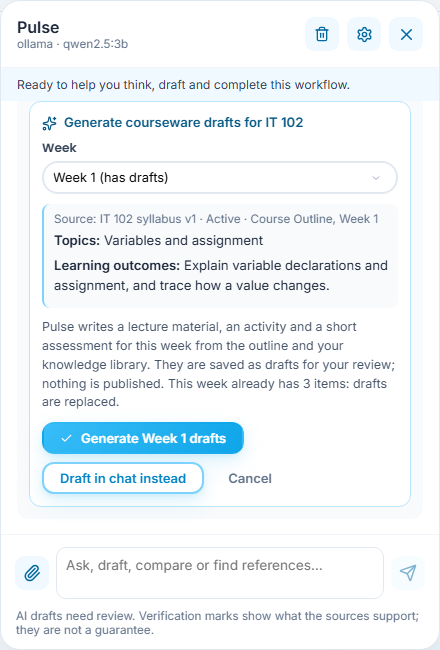
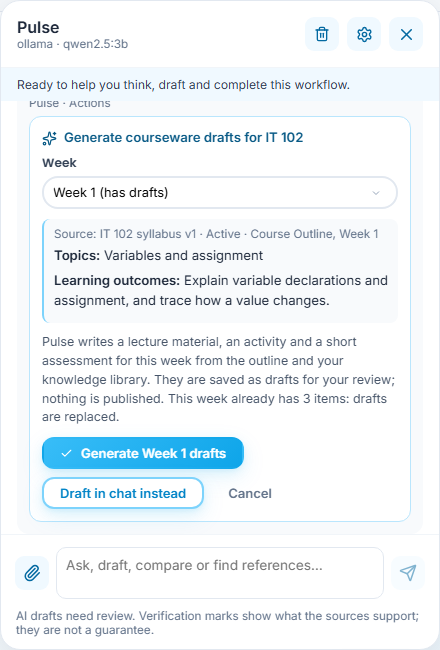
feat: enhance Pulse component with file attachment handling and improve UI for action cards

diff --git a/edupulse-app/src/components/pulse/PulseActions.jsx b/edupulse-app/src/components/pulse/PulseActions.jsx
@@ -9,6 +9,8 @@ import { rankCourses, refineCourses } from '../../agents/operator'
 
 const STRENGTH = { named: 'Named in the file', strong: 'Strong match', possible: 'Possible match' }
 const isExam = row => !row?.ilos && /examination/i.test(row?.assessments || '')
+// A long address wraps after its "@", never inside the name or domain.
+const Email = ({ value }) => { const at = value.indexOf('@'); return at > 0 ? <>{value.slice(0, at + 1)}<wbr />{value.slice(at + 1)}</> : value }
 
 function CourseOptions({ catalog }) {
   const yours = catalog.filter(c => c.yours), others = catalog.filter(c => !c.yours)
@@ -52,7 +54,7 @@ function RegisterCard({ proposal, ctx }) {
       <label className="form-label">Block section<input className="form-input" aria-label="Block section" value={block} maxLength={20} placeholder="e.g. BSIT-1A" onChange={e => setBlock(e.target.value.toUpperCase())} /></label>
     </div>
     <div className="pulse-action-table"><table><thead><tr><th scope="col">Student ID</th><th scope="col">Name</th><th scope="col">Email</th></tr></thead>
-      <tbody>{roster.students.slice(0, 5).map(s => <tr key={`${s.StudentID}-${s.Name}`}><td>{s.StudentID || '—'}</td><td>{s.Name}</td><td>{s.Email || '—'}</td></tr>)}</tbody></table>
+      <tbody>{roster.students.slice(0, 5).map(s => <tr key={`${s.StudentID}-${s.Name}`}><td>{s.StudentID || '—'}</td><td>{s.Name}</td><td>{s.Email ? <Email value={s.Email} /> : '—'}</td></tr>)}</tbody></table>
       {roster.students.length > 5 && <small>and {roster.students.length - 5} more</small>}</div>
     <p className="pulse-action-note">{!courseCode || !block.trim() ? 'Choose the course and block to see what will change.' : preview ? `${courseCode} · ${block.trim()} already lists ${existing.studentCount} students: ${preview.added} new will be added and ${preview.already} already registered will be kept once.` : `This adds a new class list for ${courseCode} · ${block.trim()} to Syllabus → My Courses.`}</p>
     {state.status === 'error' && <p role="alert" className="connected-pulse-warning">{state.message}</p>}
@@ -99,7 +101,7 @@ function FileCard({ proposal, ctx }) {
       <button type="button" className="btn btn-secondary btn-sm" onClick={() => ctx.ask(`Summarize “${r.title}” and list its key points.`, { documentIds: [r.id], task: 'summarize', label: r.title })}><MessageSquare size={13} /> Ask about it</button>
       <button type="button" className="btn btn-secondary btn-sm" onClick={() => ctx.ask(`Make a study guide from “${r.title}”: key terms, main ideas and three self-check questions, with citations.`, { documentIds: [r.id], task: 'draft', label: r.title })}><BookOpenCheck size={13} /> Make a study guide</button>
       <button type="button" className="btn btn-ghost btn-sm" onClick={() => ctx.navigate('/settings?tab=ai-provider')}><ExternalLink size={13} /> Open knowledge library</button></>}>
-      {r.duplicate ? <><strong>Already in your library.</strong> “{r.title}” was indexed before; nothing was added.</> : <><strong>Added to your knowledge library.</strong> “{r.title}” · {r.chunks} passages{r.pages ? ` from ${r.pages} pages` : ''}{r.course ? `, filed under ${r.course}` : ''}. Pulse cites it by title and page.</>}
+      {r.duplicate ? <><strong>Already in your library.</strong> “{r.title}” was indexed before; nothing was added.</> : <><strong>Added to your knowledge library.</strong> “{r.title}” · {r.chunks} passage{r.chunks === 1 ? '' : 's'}{r.pages ? ` from ${r.pages} page${r.pages === 1 ? '' : 's'}` : ''}{r.course ? `, filed under ${r.course}` : ''}. Pulse cites it by title{r.pages ? ' and page' : ''}.</>}
     </Done>
   }
   if (!open) return <div className="pulse-action pulse-action-compact"><FolderPlus size={14} aria-hidden="true" /><span>Keep <strong>{attachment.fileName}</strong> for later?{top ? <> Suggested course: <strong>{top.code}</strong> ({STRENGTH[top.strength].toLowerCase()}).</> : ''}</span><button type="button" className="btn btn-secondary btn-sm" onClick={() => setOpen(true)}>Review and add</button></div>

diff --git a/edupulse-app/tests/snapshots/manual.spec.ts b/edupulse-app/tests/snapshots/manual.spec.ts
@@ -4,14 +4,14 @@ import { mkdir, readFile } from 'node:fs/promises'
 // System manual: step-by-step task screenshots from the production build.
 const ROOT = '../feature-documentation/system-manual'
 test.describe.configure({ mode: 'serial' })
-async function shot(target: Page | Locator, folder: string, name: string) {
+async function shot(target: Page | Locator, folder: string, name: string, extraStyle = '') {
   await mkdir(`${ROOT}/${folder}`, { recursive: true })
   const component = !('goto' in target)
   // Toasts from earlier steps would cover the screen being documented.
   const page = component ? (target as Locator).page() : target as Page
   for (const toast of await page.locator('.toast').all()) await toast.click().catch(() => undefined)
   await expect(page.locator('.toast')).toHaveCount(0, { timeout: 5000 }).catch(() => undefined)
-  await target.screenshot({ path: `${ROOT}/${folder}/${name}.png`, animations: 'disabled', ...(component ? { style: '.app-topbar{position:static !important}' } : {}) })
+  await target.screenshot({ path: `${ROOT}/${folder}/${name}.png`, animations: 'disabled', ...(component ? { style: `.app-topbar{position:static !important}${extraStyle}` } : {}) })
 }
 const saved = (page: Page) => expect(page.getByText('Local workspace · Saved', { exact: true })).toBeVisible({ timeout: 30_000 })
 
@@ -107,6 +107,8 @@ const sampleClassList = `StudentID,Name,Email,YearLevel,Block
 2026-90005,Felix Uy,felix.uy@example.edu,1,BSIT-1B
 2026-90006,Gina P. Flores,gina.flores@example.edu,1,BSIT-1B`
 const pulseDialog = (page: Page) => page.getByRole('dialog', { name: 'Pulse', exact: true })
+// An action card taller than the panel's scroll area is captured whole: the panel may grow upwards while the card is shot.
+const WHOLE_CARD = '.connected-pulse{height:auto !important;overflow:visible !important}.connected-pulse-feed{overflow:visible !important;flex:none !important}'
 async function askPulse(page: Page, text: string) {
   await page.getByRole('textbox', { name: 'Ask Pulse', exact: true }).fill(text)
   await page.getByRole('button', { name: 'Send', exact: true }).click()
@@ -126,8 +128,7 @@ test('Pulse actions: register an attached class list, then search it', async ({ 
   await page.getByRole('button', { name: 'Send', exact: true }).click()
   const card = dialog.getByRole('region', { name: /^Register class list/ })
   await expect(card.getByLabel('Course to register')).toHaveValue('IT 102')
-  await card.scrollIntoViewIfNeeded()
-  await shot(dialog, f, '02-register-card')
+  await shot(card, f, '02-register-card', WHOLE_CARD)
   await card.getByRole('button', { name: 'Register 6 students' }).click()
   await expect(dialog.getByText(/IT 102 · BSIT-1B now lists 6 students/)).toBeVisible()
   await saved(page)
@@ -152,8 +153,7 @@ test('Pulse actions: a student files a material under a course', async ({ page, 
   await askPulse(page, 'Which course is this for? Please save it there.')
   const card = dialog.getByRole('region', { name: 'Add css-layout-notes.txt to a course' })
   await expect(card).toContainText('Ranked by meaning (embeddings) and keyword match', { timeout: 60_000 })
-  await card.scrollIntoViewIfNeeded()
-  await shot(dialog, f, '05-material-course-suggestion')
+  await shot(card, f, '05-material-course-suggestion', WHOLE_CARD)
   await card.getByRole('button', { name: /^Add to library under/ }).click()
   await expect(dialog.getByText(/Added to your knowledge library/)).toBeVisible({ timeout: 120_000 })
   await shot(dialog, f, '06-material-added')

diff --git a/edupulse-app/src/components/pulse/Pulse.jsx b/edupulse-app/src/components/pulse/Pulse.jsx
@@ -235,7 +235,7 @@ export default function Pulse() {
     const references = plan.chat ? pending.map(chatReference) : []
     const syllabusRef = plan.chat && course && references.length < 3 ? syllabusReference(course) : null
     if (syllabusRef) references.push(syllabusRef)
-    setMessages(previous => [...previous, { id: crypto.randomUUID(), from: 'user', text: question || `Attached ${pending.map(a => a.fileName || a.title).join(', ')}`, attachedNames: references.map(a => a.title).concat(plan.chat ? [] : pending.map(a => a.fileName || a.title)), scope: options.scope }])
+    setMessages(previous => [...previous, { id: crypto.randomUUID(), from: 'user', text: question || `Attached ${pending.map(a => a.fileName || a.title).join(', ')}`, attachedNames: references.map(a => a.title), fileNames: plan.chat ? [] : pending.map(a => a.fileName || a.title), scope: options.scope }])
     for (const proposal of now) {
       if (proposal.type === 'navigate') navigate(proposal.path)
       if (proposal.type === 'search') {
@@ -303,6 +303,8 @@ export default function Pulse() {
           {message.from === 'pulse' && message.trace ? <AgentAnswer message={message} onRevise={note => void send(`Revise your previous answer: ${note}`, { task: message.task, skipOperator: true })} /> : message.mode === 'actions' ? <div className="pulse-actions">{message.proposals.map((proposal, i) => <PulseAction key={i} proposal={proposal} ctx={actionContext} />)}</div> : <div className="connected-pulse-text">{message.text}</div>}
           {message.scope && <small>Scope: {message.scope}</small>}
           {message.attachedNames?.length > 0 && <small>References: {message.attachedNames.join(', ')}</small>}
+          {/* Files used only by an action card are attached, not sent to the answer agents as references. */}
+          {message.fileNames?.length > 0 && <small>Attached: {message.fileNames.join(', ')}</small>}
           {message.warning && <p className="connected-pulse-warning">{message.warning}</p>}
           {message.actions?.map(action => <button key={action.label} className="btn btn-secondary btn-sm" onClick={() => { action.onClick?.(); if (action.path) navigate(action.path) }}>{action.label}</button>)}
         </article>)}

diff --git a/edupulse-app/src/components/pulse/connected-pulse.css b/edupulse-app/src/components/pulse/connected-pulse.css
@@ -100,8 +100,9 @@
 .pulse-action-fields { display: grid; grid-template-columns: minmax(0, 1.6fr) minmax(0, 1fr); gap: 8px; }
 .pulse-action-table { overflow-x: auto; margin-top: 8px; }
 .pulse-action-table table { width: 100%; border-collapse: collapse; font-size: .74rem; }
-.pulse-action-table th, .pulse-action-table td { text-align: left; padding: 5px 6px; border-bottom: 1px solid var(--gray-100); overflow-wrap: anywhere; }
+.pulse-action-table th, .pulse-action-table td { text-align: left; padding: 5px 6px; border-bottom: 1px solid var(--gray-100); overflow-wrap: break-word; }
 .pulse-action-table th { color: var(--gray-600); font-weight: 700; background: var(--gray-50); }
+.pulse-action-table td:first-child { white-space: nowrap; }
 .pulse-action-note { color: var(--gray-600); font-size: .78rem; line-height: 1.5; }
 .pulse-action-warnings { margin: 4px 0; padding-left: 18px; color: #71491a; font-size: .76rem; }
 .pulse-action-courses { border: 0; padding: 0; margin: 0; min-width: 0; }

diff --git a/feature-documentation/system-manual/09-pulse-actions/README.md b/feature-documentation/system-manual/09-pulse-actions/README.md
@@ -14,11 +14,11 @@ The class list in these screenshots is sample data: invented names with `example
 
    ![Class list attached](01-attach-class-list.png)
 
-2. The **Register students** card shows how the file was read, the **Course** and **Block section** (detected from the file name, a course column or the first lines; change them if needed), the first five students and what will change: a new class list, or for a course and block you already registered, how many students are new and how many are already listed. Rows without a name are reported, never guessed, and duplicate rows are merged. Press **Register *n* students** to confirm, or **Cancel**.
+2. The card **Register students from *file*** shows how the file was read (*6 students found (comma-separated table)*), the **Course** and **Block section** (detected from the file name, a course column or the first lines; change them if needed), the first five students (*and 1 more*) and what will change. Here it is a new class list: *This adds a new class list for IT 102 · BSIT-1B to Syllabus → My Courses*. For a course and block you already registered, the card says instead how many students are new and how many are already listed. Rows without a name are reported, never guessed, and duplicate rows are merged. Press **Register *n* students** to confirm, or **Cancel**.
 
    ![Register card](02-register-card.png)
 
-3. Pulse saves the class list to your workspace and opens **Syllabus → My Courses**, where it appears under **Registered Courses**. The card now says what was registered and from which file, with **Open My Courses** and **Undo**. **Undo** removes this registration, or restores the earlier list if it was merged.
+3. Pulse saves the class list to your workspace and opens **Syllabus → My Courses**, where it appears under **Registered Courses**. The card now says what was registered and from which file, with **Open My Courses** and **Undo**. **Undo** removes this registration, or restores the earlier list if it was merged. Your message lists the file under **Attached:** because only the action used it; files that Pulse reads to answer a question are listed under **References:**.
 
    ![Registered in My Courses](03-registered-in-my-courses.png)
 
@@ -30,11 +30,11 @@ The class list in these screenshots is sample data: invented names with `example
 
 ## File a material under a course (students and instructors)
 
-5. Attach a handout, notes or slides and ask *Which course is this for?* (or *save this to IT 209*). The card ranks the courses it matches. Each suggestion says why: the words from your file and where they appear in the course (its title, description, program outcomes or a syllabus outline week, for example *Week 3 topics*). Your own courses are marked **Your course**. Pulse ranks first by keywords, then re-ranks the shortlist by meaning with the embedding model; the line under the list says which method was used. Pick another course from **Another course** if needed and check the **Title**.
+5. Attach a handout, notes or slides and ask *Which course is this for?* (or *save this to IT 209*). The card ranks the courses it matches. The best match is selected. Each suggestion says why: the words from your file and where they appear in the course (its title, description, program outcomes or a syllabus outline week, for example *“flexbox” (Week 3 topics)*), and how strong the match is (**Named in the file**, **Strong match** or **Possible match**; here two web courses match about equally well, so both are *possible*). Your own courses are marked **Your course**. Pulse ranks first by keywords, then re-ranks the shortlist by meaning with the embedding model; the line under the list says which method was used. Pick another course from **Another course** if needed and check the **Title**.
 
    ![Course suggestion with reasons](05-material-course-suggestion.png)
 
-6. Press **Add to library under *course*** to index it in your knowledge library. Its title starts with the course code, so later answers about that course cite it by course, title and page. The card offers **Ask about it**, **Make a study guide** (a cited draft) and **Open knowledge library**, where the document lists its course.
+6. Press **Add to library under *course*** to index it in your knowledge library. Its title starts with the course code (*IT 209 · css layout notes*), so later answers about that course find and cite it. The card says how many passages were indexed and that Pulse cites the file by title (and by page, for files that have pages). The card offers **Ask about it**, **Make a study guide** (a cited draft) and **Open knowledge library**, where the document lists its course.
 
    ![Material added](06-material-added.png)
 
@@ -42,7 +42,7 @@ The class list in these screenshots is sample data: invented names with `example
 
 ## Prepare a week of courseware (instructors)
 
-7. Ask, for example, *Generate week 1 materials for IT 102*. The card shows the source it will follow, the course's active syllabus and its **Course Outline** week (topics, learning outcomes, activities and assessments), and says that checked or published items are kept. **Generate Week *n* drafts** writes a lecture material, an activity and a short assessment as drafts for your review, then opens **Courseware** on that course with the week expanded. **Draft in chat instead** writes a draft in the conversation without saving anything. A course without an active syllabus cannot be generated; the card says why and opens **My Syllabus**.
+7. Ask, for example, *Generate week 1 materials for IT 102*. The card shows the source it will follow: the course's active syllabus and its **Course Outline** week, here the **Topics** and **Learning outcomes** of Week 1 (activities and assessments appear when the outline lists them). The **Week** list marks weeks that already have items (*has drafts*), and the card says what happens to them: here *This week already has 3 items: drafts are replaced*. Checked or published items are always kept. **Generate Week *n* drafts** writes a lecture material, an activity and a short assessment as drafts for your review, then opens **Courseware** on that course with the week expanded. **Draft in chat instead** writes a draft in the conversation without saving anything. A course without an active syllabus cannot be generated; the card says why and opens **My Syllabus**.
 
    ![Generate a week from the outline](07-generate-week-source.png)
 
